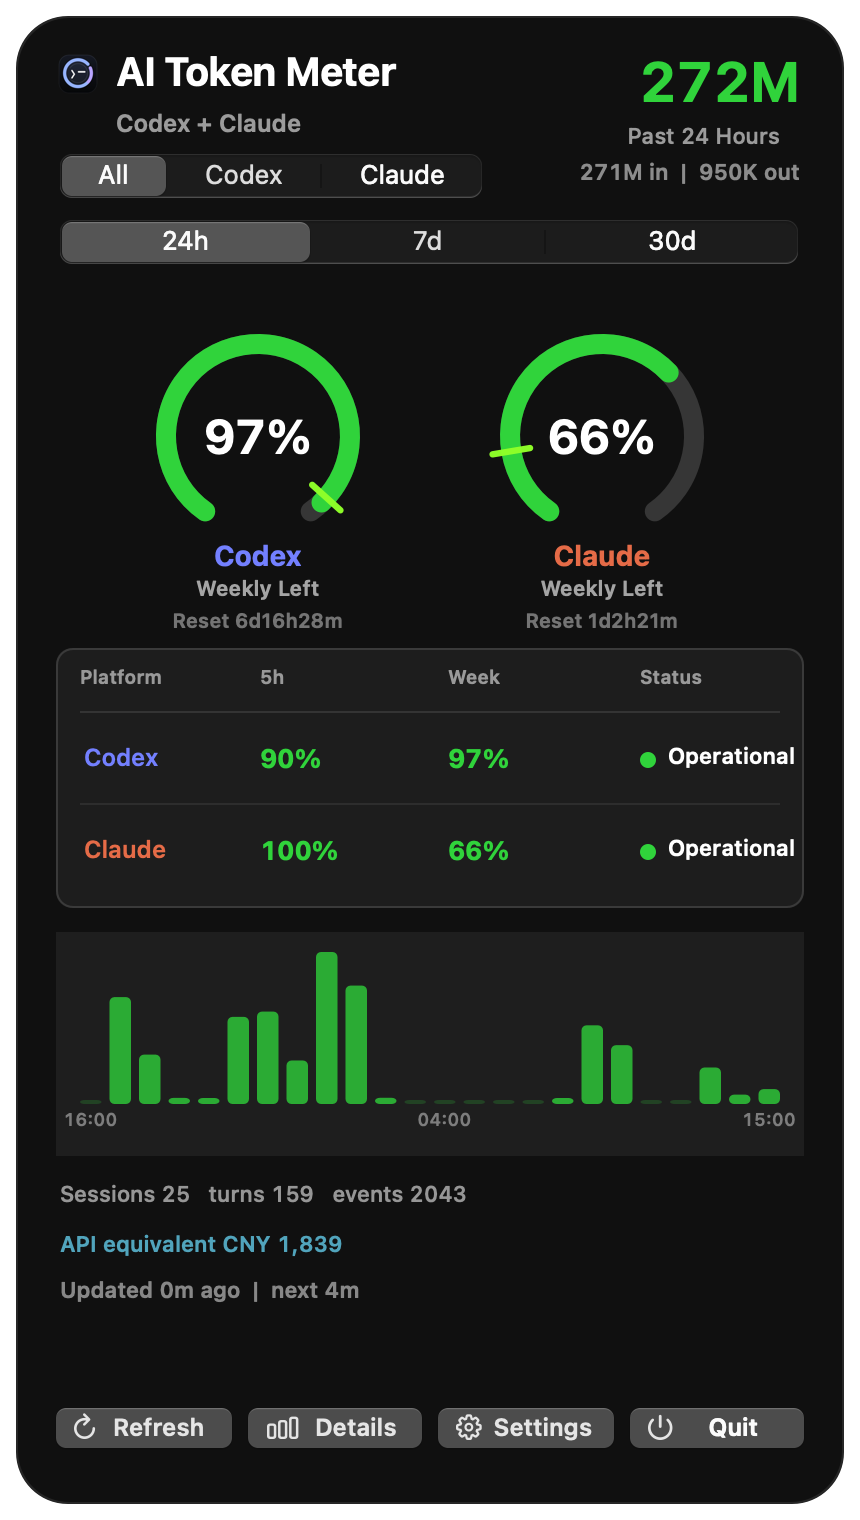
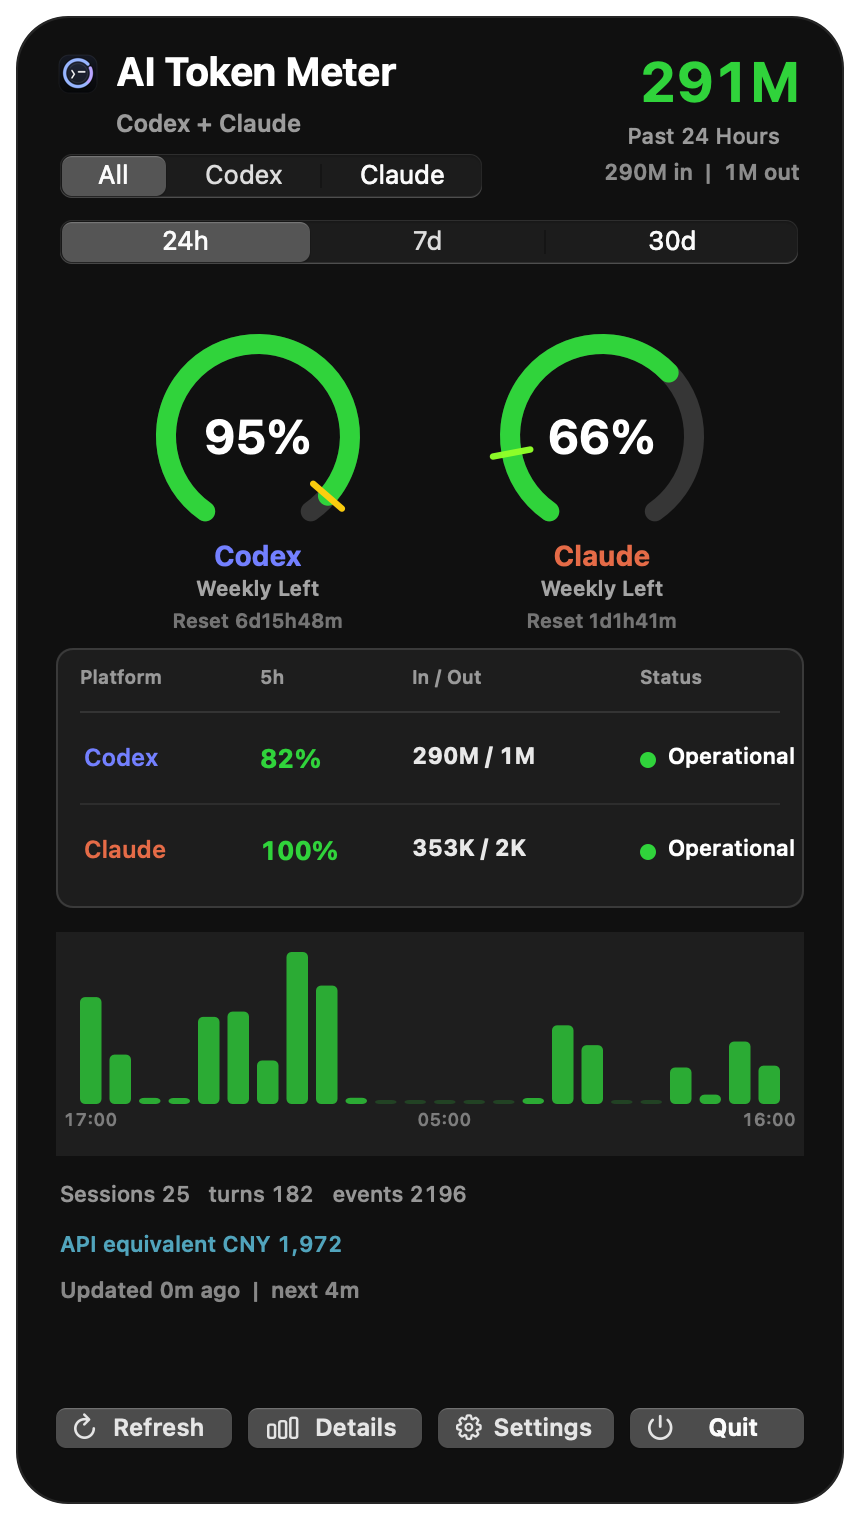
Show input output in platform overview

diff --git a/Sources/CodexTokenMeter/DashboardViews.swift b/Sources/CodexTokenMeter/DashboardViews.swift
@@ -989,6 +989,8 @@ final class PlatformQuotaOverviewView: NSView {
 final class PlatformQuotaRingsOverviewView: NSView {
     var limits: [LiveRateLimit] = [] { didSet { needsDisplay = true } }
     var report = TokenReport(scannedAt: Date()) { didSet { needsDisplay = true } }
+    var codexReport: TokenReport? { didSet { needsDisplay = true } }
+    var claudeReport: TokenReport? { didSet { needsDisplay = true } }
     var costText = "" { didSet { needsDisplay = true } }
     private var statusHitRects: [QuotaViewOption: NSRect] = [:]
     private var hoverRegions: [(rect: NSRect, tooltip: String)] = []
@@ -1135,28 +1137,27 @@ final class PlatformQuotaRingsOverviewView: NSView {
         border.stroke()
 
         let columns: [(String, CGFloat, CGFloat)] = [
-            (platformHeader, 12, 84), ("5h", 102, 64), (weekHeader, 196, 64), (statusHeader, 292, 80)
+            (platformHeader, 12, 84), ("5h", 102, 58), (inputOutputHeader, 178, 104), (statusHeader, 292, 80)
         ]
         for (title, x, width) in columns {
             drawText(title, rect: NSRect(x: table.minX + x, y: table.minY + 9, width: width, height: 15), font: .systemFont(ofSize: 9.5, weight: .semibold), color: NSColor.white.withAlphaComponent(0.55), alignment: .left)
         }
         drawSeparator(y: table.minY + 32, in: table, alpha: 0.10)
-        drawTableRow(table: table, y: table.minY + 40, title: "Codex", target: .codex, limit: codex)
+        drawTableRow(table: table, y: table.minY + 40, title: "Codex", target: .codex, limit: codex, report: codexReport)
         drawSeparator(y: table.minY + 78, in: table, alpha: 0.07)
-        drawTableRow(table: table, y: table.minY + 86, title: "Claude", target: .claude, limit: claude)
+        drawTableRow(table: table, y: table.minY + 86, title: "Claude", target: .claude, limit: claude, report: claudeReport)
     }
 
-    private func drawTableRow(table: NSRect, y: CGFloat, title: String, target: QuotaViewOption, limit: LiveRateLimit?) {
+    private func drawTableRow(table: NSRect, y: CGFloat, title: String, target: QuotaViewOption, limit: LiveRateLimit?, report: TokenReport?) {
         let primaryColor = colorForRemaining(percent: limit?.primary.remainingPercent ?? -1)
-        let secondaryColor = colorForRemaining(percent: limit?.secondary.remainingPercent ?? -1)
         let statusColor = colorForRemaining(percent: min(limit?.primary.remainingPercent ?? -1, limit?.secondary.remainingPercent ?? -1))
         hoverRegions.append((
             rect: NSRect(x: table.minX, y: y - 4, width: table.width, height: 42),
-            tooltip: rowTooltip(title: title, limit: limit)
+            tooltip: rowTooltip(title: title, limit: limit, report: report)
         ))
         drawText(title, rect: NSRect(x: table.minX + 14, y: y + 7, width: 74, height: 18), font: .systemFont(ofSize: 12, weight: .semibold), color: platformBrandColor(target), alignment: .left)
-        drawText(percentText(limit?.primary.remainingPercent), rect: NSRect(x: table.minX + 102, y: y + 7, width: 64, height: 18), font: .monospacedDigitSystemFont(ofSize: 13, weight: .bold), color: primaryColor, alignment: .left)
-        drawText(percentText(limit?.secondary.remainingPercent), rect: NSRect(x: table.minX + 196, y: y + 7, width: 64, height: 18), font: .monospacedDigitSystemFont(ofSize: 13, weight: .bold), color: secondaryColor, alignment: .left)
+        drawText(percentText(limit?.primary.remainingPercent), rect: NSRect(x: table.minX + 102, y: y + 7, width: 58, height: 18), font: .monospacedDigitSystemFont(ofSize: 13, weight: .bold), color: primaryColor, alignment: .left)
+        drawText(inputOutputText(report), rect: NSRect(x: table.minX + 178, y: y + 7, width: 104, height: 18), font: .monospacedDigitSystemFont(ofSize: 11.5, weight: .bold), color: NSColor.white.withAlphaComponent(0.90), alignment: .left)
         let statusRect = NSRect(x: table.minX + 292, y: y + 1, width: 80, height: 32)
         statusHitRects[target] = statusRect
         statusColor.setFill()
@@ -1168,8 +1169,8 @@ final class PlatformQuotaRingsOverviewView: NSView {
         AppLanguage.current == .english ? "Platform" : "平台"
     }
 
-    private var weekHeader: String {
-        AppLanguage.current == .english ? "Week" : "周"
+    private var inputOutputHeader: String {
+        AppLanguage.current == .english ? "In / Out" : "输入/输出"
     }
 
     private var statusHeader: String {
@@ -1250,15 +1251,28 @@ final class PlatformQuotaRingsOverviewView: NSView {
         return lines.joined(separator: "\n")
     }
 
-    private func rowTooltip(title: String, limit: LiveRateLimit?) -> String {
-        guard let limit else {
-            return "\(title)\n\(t(.liveLimitUnavailable))"
+    private func rowTooltip(title: String, limit: LiveRateLimit?, report: TokenReport?) -> String {
+        var lines = [title]
+        if let limit {
+            lines.append("5h \(t(.remaining)) \(Int(round(limit.primary.remainingPercent)))% · \(t(.reset)) \(compactResetRelative(limit.primary.resetsAt))")
+            lines.append("\(t(.weeklyLeft)) \(Int(round(limit.secondary.remainingPercent)))% · \(t(.reset)) \(compactResetRelative(limit.secondary.resetsAt))")
+        } else {
+            lines.append(t(.liveLimitUnavailable))
         }
-        return [
-            title,
-            "5h \(t(.remaining)) \(Int(round(limit.primary.remainingPercent)))% · \(t(.reset)) \(compactResetRelative(limit.primary.resetsAt))",
-            "周 \(t(.remaining)) \(Int(round(limit.secondary.remainingPercent)))% · \(t(.reset)) \(compactResetRelative(limit.secondary.resetsAt))"
-        ].joined(separator: "\n")
+        guard let report else {
+            lines.append("\(t(.input)) --")
+            lines.append("\(t(.output)) --")
+            return lines.joined(separator: "\n")
+        }
+        let estimate = APICostEstimator.estimate(report: report)
+        lines.append("\(t(.input)) \(formatFull(report.usage.input))")
+        lines.append("\(t(.output)) \(formatFull(report.usage.output))")
+        lines.append("\(t(.cached)) \(formatFull(report.usage.cachedInput))")
+        lines.append("\(t(.fresh)) \(formatFull(report.usage.freshInput))")
+        if estimate.hasPricedUsage {
+            lines.append("\(t(.apiEquivalent)) \(displayAPIMoney(estimate.usdValue))")
+        }
+        return lines.joined(separator: "\n")
     }
 
     private func resetSummary(_ limit: LiveRateLimit?) -> String {
@@ -1269,6 +1283,17 @@ final class PlatformQuotaRingsOverviewView: NSView {
     private func percentText(_ value: Double?) -> String {
         guard let value else { return "--" }
         return "\(Int(round(value)))%"
+    }
+
+    private func inputOutputText(_ report: TokenReport?) -> String {
+        guard let report else { return "-- / --" }
+        return "\(compactDashboardMetric(report.usage.input)) / \(compactDashboardMetric(report.usage.output))"
+    }
+
+    private func formatFull(_ value: Int64) -> String {
+        let formatter = NumberFormatter()
+        formatter.numberStyle = .decimal
+        return formatter.string(from: NSNumber(value: value)) ?? "\(value)"
     }
 
     private func compactResetRelative(_ date: Date?) -> String {
@@ -1374,6 +1399,8 @@ final class DashboardView: NSView {
         segment.selectedSegment = WindowOption.allCases.firstIndex(of: state.selectedWindow) ?? 1
         platformQuotaView.limits = state.liveLimits
         platformQuotaView.report = report
+        platformQuotaView.codexReport = state.codexReport
+        platformQuotaView.claudeReport = state.claudeReport
         platformQuotaView.isHidden = !showsComparisonTable
 
         let primary = displayLimit?.primary

diff --git a/Sources/CodexTokenMeter/CLIHelpers.swift b/Sources/CodexTokenMeter/CLIHelpers.swift
@@ -108,7 +108,14 @@ func renderDashboardSnapshot(arguments: [String]) throws -> URL {
     let claudeScanner = ClaudeTokenScanner(rootURLs: AppSettings.claudeLogFolderURLs)
     let window = requestedWindow(from: arguments) ?? .week
     let quota = requestedQuota(from: arguments) ?? .all
-    let report = scanReport(window: window, source: quota, codexScanner: scanner, claudeScanner: claudeScanner)
+    let codexReport = quota == .all ? scanner.scan(window: window) : nil
+    let claudeReport = quota == .all ? claudeScanner.scan(window: window) : nil
+    let report: TokenReport
+    if let codexReport, let claudeReport {
+        report = mergedTokenReport([codexReport, claudeReport])
+    } else {
+        report = scanReport(window: window, source: quota, codexScanner: scanner, claudeScanner: claudeScanner)
+    }
     let liveLimits = combinedLiveLimits()
     let serviceStatus = CodexServiceStatusReader().read()
     let accountUsage = AppSettings.profileAPITotalsEnabled ? AccountUsageReader().read() : nil
@@ -128,6 +135,8 @@ func renderDashboardSnapshot(arguments: [String]) throws -> URL {
 
     let state = DashboardState(
         report: report,
+        codexReport: codexReport,
+        claudeReport: claudeReport,
         profileReport: profileReport,
         accountUsage: accountUsage,
         costReferenceReport: nil,
